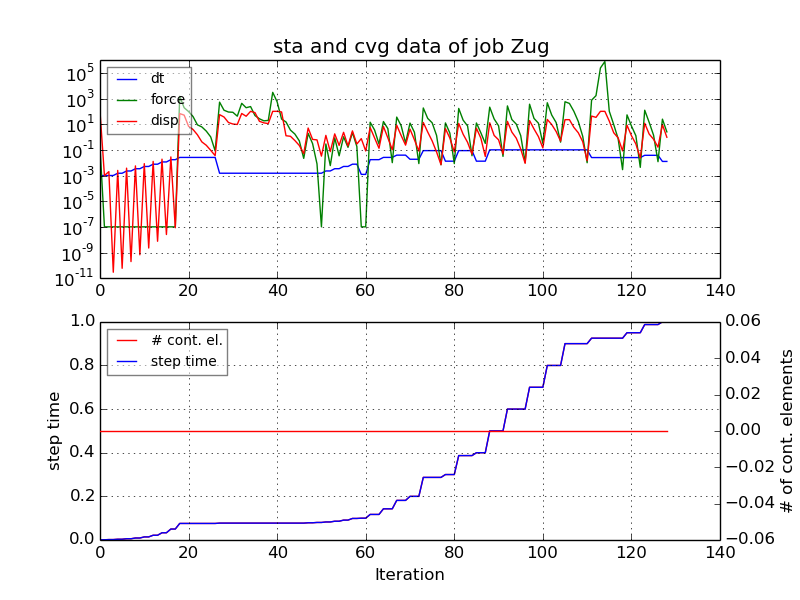
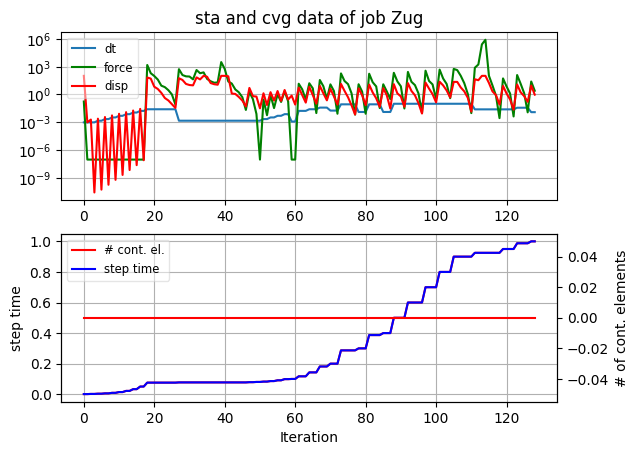
fix force color and y2 label cut-off

Changed region(s): [[0.0, 0.0308, 1.0, 0.9846], [0.5063, 0.3692, 0.5361, 0.4]]

diff --git a/Scripts/monitor.py b/Scripts/monitor.py
@@ -85,7 +85,7 @@ for i in it:
 pylab.subplot(2,1,1)
 pylab.title('sta and cvg data of job '+job )
 pylab.semilogy(it[:istamax],itdt[:istamax],'-',
-               it[:icvgmax],cvg[:icvgmax,5],'-',
+               it[:icvgmax],cvg[:icvgmax,5],'g-',
                it[:icvgmax],cvg[:icvgmax,6],'r-')
 pylab.grid()
 pylab.legend(['dt','force','disp'],
@@ -102,5 +102,5 @@ pylab.grid()
 sp2=sp1.twinx()
 pylab.plot(it[:icvgmax],cvg[:icvgmax,4],'r-')
 pylab.ylabel('# of cont. elements')
-pylab.savefig(job)
+pylab.savefig(job, bbox_inches='tight' )
 pylab.show()

diff --git a/Drahtbiegen/Zug/README.md b/Drahtbiegen/Zug/README.md
@@ -1,5 +1,5 @@
 # Tensile Test
-Tested with CGX 2.16 / CCX 2.15
+Tested with CGX 2.19/ CCX 2.19
 
 Issues
 * dark shading of `expanded.png` worked around with first generating a color plot and then add a shaded geometry plot using `plus`
